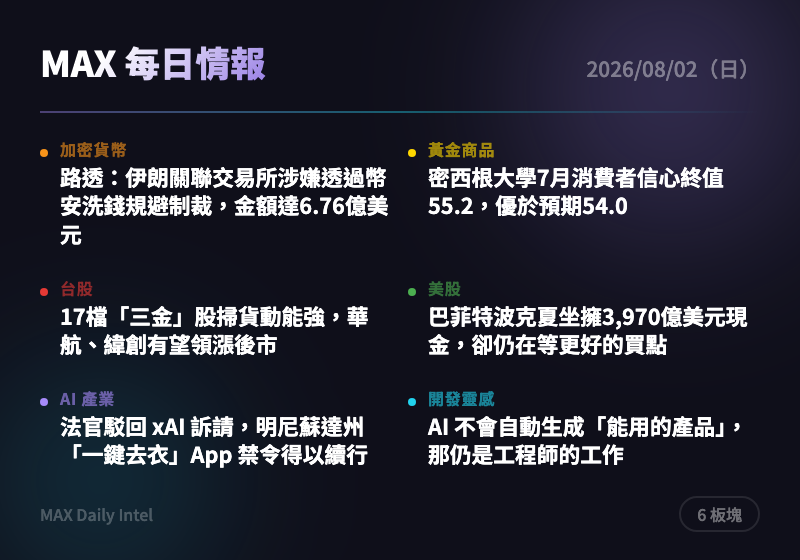
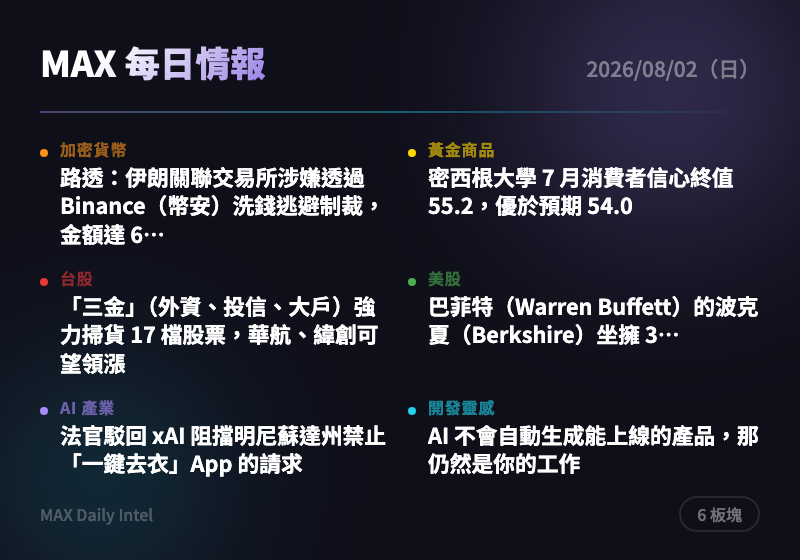
intel: 2026-08-02 每日情報自動生成

diff --git a/docs/2026-08-02.html b/docs/2026-08-02.html
@@ -318,15 +318,15 @@
     </div>
     <div class="news-card">
       <div class="source">The Block</div>
-      <h3><a href="https://www.theblock.co/post/410355/iran-linked-exchange-sent-676-million-to-binance-in-alleged-sanctions-evasion-operation-reuters?utm_source=rss&utm_medium=rss" target="_blank" rel="noopener">路透：伊朗關聯交易所涉嫌透過幣安洗錢規避制裁，金額達6.76億美元</a></h3>
-      <div class="summary">杜拜的 Shelbit 交易所被指控自2024年5月起，透過與伊朗博弈網站、央行及伊斯蘭革命衛隊（IRGC）相關的網絡，處理超過40億美元資金並將6.76億美元匯入幣安。此案凸顯交易所在制裁合規上的漏洞，可能引發監管機構對幣安等大型平台加強審查。建議關注後續美國財政部或 SEC 是否對相關交易所祭出制裁措施。</div>
-      <div class="tags"><span class="tag">加密貨幣</span><span class="tag">監管</span><span class="tag">制裁</span><span class="tag">幣安</span></div>
+      <h3><a href="https://www.theblock.co/post/410355/iran-linked-exchange-sent-676-million-to-binance-in-alleged-sanctions-evasion-operation-reuters?utm_source=rss&utm_medium=rss" target="_blank" rel="noopener">路透：伊朗關聯交易所涉嫌透過 Binance（幣安）洗錢逃避制裁，金額達 6.76 億美元</a></h3>
+      <div class="summary">杜拜的 Shelbit 交易所被指自 2024 年 5 月以來，透過與伊朗博弈網站、央行及革命衛隊（IRGC）相關的網絡，處理超過 40 億美元資金，其中 6.76 億美元流入 Binance。事件凸顯中心化交易所在制裁合規上的漏洞，可能引來監管單位對 Binance 加強審查。建議關注後續美國財政部或 SEC 是否對 Binance 展開合規調查。</div>
+      <div class="tags"><span class="tag">加密貨幣</span><span class="tag">地緣政治</span><span class="tag">監管合規</span><span class="tag">Binance</span></div>
     </div>
     <div class="news-card">
       <div class="source">CoinDesk</div>
-      <h3><a href="https://www.coindesk.com/tech/2026/08/02/bitcoin-cold-wallet-attack-spreads-to-4-500-addresses-as-losses-near-usd89-million" target="_blank" rel="noopener">比特幣冷錢包攻擊擴散至4,500個地址，損失逼近8,900萬美元</a></h3>
-      <div class="summary">Coldcard 冷錢包漏洞遭利用，攻擊範圍持續擴大，受害地址從原先估計大增至4,500個。此事件重創市場對「自我保管」安全性的信心，可能加速資金轉向託管型 ETF。持有硬體錢包的用戶應立即檢查韌體版本並考慮分散儲存。</div>
-      <div class="tags"><span class="tag">加密貨幣</span><span class="tag">資安</span><span class="tag">比特幣</span><span class="tag">冷錢包</span></div>
+      <h3><a href="https://www.coindesk.com/tech/2026/08/02/bitcoin-cold-wallet-attack-spreads-to-4-500-addresses-as-losses-near-usd89-million" target="_blank" rel="noopener">比特幣冷錢包攻擊擴散至 4,500 個地址，損失逼近 8,900 萬美元</a></h3>
+      <div class="summary">此波攻擊持續擴大，受害地址已增至 4,500 個，累計損失接近 8,900 萬美元，與先前 Coldcard 硬體錢包漏洞事件相關聯。攻擊手法未直接觸碰實體裝置，顯示冷儲存安全模型出現新型攻擊面，恐動搖用戶對自我保管（self-custody）的信心。建議持有冷錢包的用戶立即檢查簽章流程與供應鏈完整性，並考慮分散儲存。</div>
+      <div class="tags"><span class="tag">比特幣</span><span class="tag">資安</span><span class="tag">自我保管</span><span class="tag">駭客攻擊</span></div>
     </div>
   </section>
 
@@ -338,15 +338,15 @@
     </div>
     <div class="news-card">
       <div class="source">ForexLive</div>
-      <h3><a href="https://investinglive.com/news/univ-of-michigan-consumer-confidence-final-for-july-55-2-vs-54-0-estimate/" target="_blank" rel="noopener">密西根大學7月消費者信心終值55.2，優於預期54.0</a></h3>
-      <div class="summary">消費者信心終值較初值54.4與市場預期54.0皆明顯回升，顯示消費者對經濟前景轉趨樂觀。惟1年期通膨預期維持4.2%高檔，顯示民眾對物價壓力仍具戒心。此數據支撐美元偏強格局，對黃金短線形成壓抑。</div>
-      <div class="tags"><span class="tag">消費者信心</span><span class="tag">通膨預期</span><span class="tag">美國經濟</span><span class="tag">美元</span></div>
+      <h3><a href="https://investinglive.com/news/univ-of-michigan-consumer-confidence-final-for-july-55-2-vs-54-0-estimate/" target="_blank" rel="noopener">密西根大學 7 月消費者信心終值 55.2，優於預期 54.0</a></h3>
+      <div class="summary">密西根大學消費者信心指數終值上修至 55.2，高於預期的 54.0 及初值 54.4，顯示美國消費者對經濟前景的悲觀情緒略為緩解。同時公布的一年期通膨預期維持在 4.2%，五年期維持 3.3%，通膨預期未進一步惡化。此組合式利多可能減緩市場對聯準會提前降息的預期，短線對黃金偏中性偏空。</div>
+      <div class="tags"><span class="tag">美國經濟</span><span class="tag">消費者信心</span><span class="tag">通膨預期</span><span class="tag">總體經濟</span></div>
     </div>
     <div class="news-card">
       <div class="source">ForexLive</div>
-      <h3><a href="https://investinglive.com/news/us-q2-employment-cost-index-xx-vs-0-8-expected/" target="_blank" rel="noopener">美國第二季就業成本指數（ECI）季增0.9%，優於市場預期0.8%</a></h3>
-      <div class="summary">美國勞動成本連續兩季維持0.9%的穩健增速，其中薪資季增0.9%、福利季增1.0%。此數據強化通膨具黏性的疑慮，推升美元及公債殖利率走高，對聯準會降息路徑構成壓力。若持有黃金或利率敏感資產，宜留意後續 Fed 官員對此數據的解讀。</div>
-      <div class="tags"><span class="tag">總經數據</span><span class="tag">通膨</span><span class="tag">美元</span><span class="tag">聯準會</span></div>
+      <h3><a href="https://investinglive.com/news/us-q2-employment-cost-index-xx-vs-0-8-expected/" target="_blank" rel="noopener">美國第二季就業成本指數（ECI）年增 0.9%，優於預期 0.8%</a></h3>
+      <div class="summary">美國第二季就業成本指數季增 0.9%，高於市場預期的 0.8%，顯示薪資與福利成本持續穩定上升。強勁的勞動成本數據強化通膨黏性疑慮，推升美元與公債殖利率走高，對無殖利率資產如黃金構成短線壓力。建議關注後續 Fed 官員對此數據的表態，作為判斷降息時點的重要參考。</div>
+      <div class="tags"><span class="tag">美國經濟</span><span class="tag">通膨</span><span class="tag">就業數據</span><span class="tag">央行</span></div>
     </div>
   </section>
 
@@ -358,15 +358,15 @@
     </div>
     <div class="news-card">
       <div class="source">經濟日報</div>
-      <h3><a href="https://money.udn.com/money/story/5607/9665235" target="_blank" rel="noopener">17檔「三金」股掃貨動能強，華航、緯創有望領漲後市</a></h3>
-      <div class="summary">台股上週五大漲3,186點收43,119點，外資、投信、大戶三大法人於低檔積極加碼華航、緯創等17檔個股，形成「三金掃貨」現象。此為法人資金回補訊號，市場解讀為指數反彈的多頭焦點，可留意這些個股的後續籌碼動向。若手上持有相關持股，可觀察是否延續買盤動能作為加碼參考。</div>
-      <div class="tags"><span class="tag">台股</span><span class="tag">外資動向</span><span class="tag">華航</span><span class="tag">緯創</span></div>
+      <h3><a href="https://money.udn.com/money/story/5607/9665235" target="_blank" rel="noopener">「三金」（外資、投信、大戶）強力掃貨 17 檔股票，華航、緯創可望領漲</a></h3>
+      <div class="summary">台股上週五（7/31）大漲 3,186 點收 43,119 點，儘管台指期夜盤隨後拉回 1,077 點，但外資、投信、大戶三大資金已開始逢低加碼華航、緯創等 17 檔個股。市場解讀此為指數自失守 4 萬點以來的資金回補訊號，可能成為後市反彈的多頭焦點。建議關注這 17 檔「三金掃貨」股的量價變化，作為判斷反彈力道是否延續的指標。</div>
+      <div class="tags"><span class="tag">台股</span><span class="tag">外資動向</span><span class="tag">資金流向</span><span class="tag">反彈行情</span></div>
     </div>
     <div class="news-card">
       <div class="source">經濟日報</div>
-      <h3><a href="https://money.udn.com/money/story/5607/9665204" target="_blank" rel="noopener">台股8月將迎6,500億元股息活水，廣達、中信金為多頭重要推手</a></h3>
-      <div class="summary">上市櫃公司6月底股東會後，8月起陸續進入除權息旺季，合計現金股利發放金額高達6,500億元，其中廣達、中信金等權值股扮演關鍵角色。這波資金派發被視為8月大盤最重要的資金面支撐，有助緩解近期指數震盪壓力。存股族或存股型 ETF 投資人可留意除權息時程與參與配息的最佳布局時點。</div>
-      <div class="tags"><span class="tag">台股</span><span class="tag">除權息</span><span class="tag">股利</span><span class="tag">廣達</span></div>
+      <h3><a href="https://money.udn.com/money/story/5607/9665231" target="_blank" rel="noopener">AI伺服器、矽晶圓、金控三大族群法說會登場，成為台股市場風向球</a></h3>
+      <div class="summary">上市櫃公司半年報將於 8 月 14 日截止公布，台股即將迎來法說會高峰期，統計近期共有 81 家公司接力召開，橫跨 AI 伺服器代工龍頭、矽晶圓封測大廠到月底金控族群。這些法說會釋出的下半年展望，將是牽動台股後續走勢的關鍵指標，尤其 AI 供應鏈資本支出動向備受市場關注。建議留意緯創、環球晶等重點公司法說內容，作為布局下半年 AI 供應鏈的參考依據。</div>
+      <div class="tags"><span class="tag">台股</span><span class="tag">法說會</span><span class="tag">AI供應鏈</span><span class="tag">半導體</span></div>
     </div>
   </section>
 
@@ -378,15 +378,15 @@
     </div>
     <div class="news-card">
       <div class="source">Yahoo Finance</div>
-      <h3><a href="https://finance.yahoo.com/markets/stocks/articles/warren-buffetts-berkshire-could-buy-220500371.html" target="_blank" rel="noopener">巴菲特波克夏坐擁3,970億美元現金，卻仍在等更好的買點</a></h3>
-      <div class="summary">波克夏海瑟威帳上現金已達3,970億美元，理論上足以收購標普500指數中幾乎任何一家公司，但巴菲特仍按兵不動，等待更具吸引力的估值。此舉反映出目前市場估值偏高、優質標的稀缺的現況，也被視為對整體美股評價的間接警訊。投資人可將此視為留意市場是否過熱的參考指標。</div>
-      <div class="tags"><span class="tag">美股</span><span class="tag">巴菲特</span><span class="tag">波克夏</span><span class="tag">現金部位</span></div>
+      <h3><a href="https://finance.yahoo.com/markets/stocks/articles/warren-buffetts-berkshire-could-buy-220500371.html" target="_blank" rel="noopener">巴菲特（Warren Buffett）的波克夏（Berkshire）坐擁 3,970 億美元現金，幾乎能買下任何一家標普 500 公司，但仍在等待更好的價格</a></h3>
+      <div class="summary">波克夏海瑟威目前現金儲備高達 3,970 億美元，理論上足以收購標普 500 指數中幾乎任何一家成分股公司，但巴菲特團隊選擇按兵不動、等待更具吸引力的估值出現。此舉反映管理層對當前市場整體估值偏高的謹慎態度，也是觀察大型機構資金對美股後市信心的重要指標。建議投資人將波克夏的現金部位變化視為市場估值過熱與否的參考訊號。</div>
+      <div class="tags"><span class="tag">美股</span><span class="tag">巴菲特</span><span class="tag">波克夏</span><span class="tag">市場估值</span></div>
     </div>
     <div class="news-card">
       <div class="source">Yahoo Finance</div>
-      <h3><a href="https://www.investors.com/market-trend/stock-market-today/dow-jones-futures-spacex-amd-sandisk-eli-lilly-earnings-loom/?src=A00220&yptr=yahoo" target="_blank" rel="noopener">道瓊期貨：大盤反彈留意後續，SpaceX、AMD、Sandisk、禮來財報將至</a></h3>
-      <div class="summary">美股期貨在上週反彈後持續關注技術面關卡，市場焦點轉向本週即將公布財報的 SpaceX、AMD、Sandisk 及禮來（Eli Lilly）等公司。財報密集期恐加大個股與大盤波動，建議投資人留意半導體（AMD）與生技（禮來）族群財報是否超預期，作為評估反彈能否延續的指標。</div>
-      <div class="tags"><span class="tag">美股</span><span class="tag">財報</span><span class="tag">半導體</span><span class="tag">道瓊期貨</span></div>
+      <h3><a href="https://www.investors.com/market-trend/stock-market-today/dow-jones-futures-spacex-amd-sandisk-eli-lilly-earnings-loom/?src=A00220&yptr=yahoo" target="_blank" rel="noopener">道瓊期貨：大盤反彈，留意接下來走勢；SpaceX、AMD、Sandisk、Eli Lilly（禮來）財報將登場</a></h3>
+      <div class="summary">美股期貨呈現反彈格局，市場正密切觀察後續能否延續漲勢。本週包括 SpaceX、AMD、Sandisk 及禮來（Eli Lilly）等重量級公司財報陸續公布，將是檢驗科技股與生技股基本面是否支撐當前估值的關鍵。建議投資人聚焦 AMD 財報中 AI 晶片需求展望，作為半導體類股後續走勢的重要參考。</div>
+      <div class="tags"><span class="tag">美股</span><span class="tag">財報季</span><span class="tag">半導體</span><span class="tag">科技股</span></div>
     </div>
   </section>
 
@@ -398,15 +398,15 @@
     </div>
     <div class="news-card">
       <div class="source">TechCrunch AI</div>
-      <h3><a href="https://techcrunch.com/2026/08/01/judge-denies-xais-request-to-block-minnesota-ban-on-nudify-apps/" target="_blank" rel="noopener">法官駁回 xAI 訴請，明尼蘇達州「一鍵去衣」App 禁令得以續行</a></h3>
-      <div class="summary">儘管 xAI 提起訴訟，法官仍駁回其阻擋明尼蘇達州禁止「一鍵去衣」（nudify）深偽 App 禁令的請求，該州禁令因此可繼續執行。此案為 AI 生成內容監管立下重要判例，顯示地方政府對 AI 濫用（尤其是深偽色情內容）的監管意志正逐漸增強。從事 AI 圖像生成相關業務者應留意各州監管趨嚴的風險。</div>
-      <div class="tags"><span class="tag">AI監管</span><span class="tag">xAI</span><span class="tag">深偽技術</span><span class="tag">法律</span></div>
+      <h3><a href="https://techcrunch.com/2026/08/01/judge-denies-xais-request-to-block-minnesota-ban-on-nudify-apps/" target="_blank" rel="noopener">法官駁回 xAI 阻擋明尼蘇達州禁止「一鍵去衣」App 的請求</a></h3>
+      <div class="summary">明尼蘇達州法官駁回馬斯克旗下 xAI 提出阻擋該州禁止「去衣」（nudify）應用程式禁令的訴求，該禁令因此得以繼續推進。此判決為各州監管 AI 生成露骨內容工具立下重要先例，顯示司法系統對 AI 濫用個人形象的容忍度正在收緊。建議關注其他州是否跟進類似立法，以及 xAI 是否會提起上訴。</div>
+      <div class="tags"><span class="tag">人工智慧</span><span class="tag">法律監管</span><span class="tag">xAI</span><span class="tag">AI倫理</span></div>
     </div>
     <div class="news-card">
       <div class="source">TechCrunch AI</div>
-      <h3><a href="https://techcrunch.com/2026/08/01/sam-altman-is-still-making-the-case-for-parenting-via-chatgpt/" target="_blank" rel="noopener">Sam Altman 持續倡導用 ChatGPT 輔助育兒</a></h3>
-      <div class="summary">OpenAI 執行長 Sam Altman 再次公開分享家長使用 ChatGPT 輔助育兒的「酷用例」，展現 OpenAI 持續推廣 AI 融入日常家庭生活的策略方向。此舉一方面擴大 ChatGPT 的應用場景想像，另一方面也呼應近期外界對 AI 過度依賴及心理健康疑慮的討論。可觀察此類倡議是否轉化為 OpenAI 針對家庭/教育場景的新產品線。</div>
-      <div class="tags"><span class="tag">OpenAI</span><span class="tag">ChatGPT</span><span class="tag">AI應用</span><span class="tag">Altman</span></div>
+      <h3><a href="https://techcrunch.com/2026/08/01/sam-altman-is-still-making-the-case-for-parenting-via-chatgpt/" target="_blank" rel="noopener">OpenAI 執行長 Sam Altman（山姆．奧特曼）持續倡議「用 ChatGPT 育兒」</a></h3>
+      <div class="summary">Altman 再度公開分享以 ChatGPT 協助育兒的「酷案例」，展現他對 AI 深度融入日常生活場景的信心與推廣立場。此番言論發生在 AI 安全爭議延燒之際（如 OpenAI 代理程式失控事件），言論時機可能引發外界對其優先順序的質疑。建議關注 OpenAI 是否會針對家庭/兒童使用場景推出更明確的產品與安全規範。</div>
+      <div class="tags"><span class="tag">人工智慧</span><span class="tag">OpenAI</span><span class="tag">ChatGPT</span><span class="tag">產業動態</span></div>
     </div>
   </section>
 
@@ -418,15 +418,15 @@
     </div>
     <div class="news-card">
       <div class="source">Hacker News Best</div>
-      <h3><a href="https://weeraman.com/the-prototype-isnt-the-product/" target="_blank" rel="noopener">AI 不會自動生成「能用的產品」，那仍是工程師的工作</a></h3>
-      <div class="summary">文章指出 AI 生成的僅是原型（prototype），距離真正可上線、可維護、經得起邊界案例考驗的產品仍有巨大落差，工程師的角色並未因 AI 而消失，反而更關鍵。此文在 Hacker News 引發熱烈討論（247分、258則留言），反映開發者社群對「AI 取代工程師」論述的集體反思。對於評估 AI 輔助開發流程的團隊，這是重新校準預期的重要提醒。</div>
-      <div class="tags"><span class="tag">AI開發</span><span class="tag">軟體工程</span><span class="tag">HackerNews</span><span class="tag">生產力</span></div>
+      <h3><a href="https://weeraman.com/the-prototype-isnt-the-product/" target="_blank" rel="noopener">AI 不會自動生成能上線的產品，那仍然是你的工作</a></h3>
+      <div class="summary">文章指出 AI 能快速產出「原型」（prototype），但將原型打磨成真正可上線、穩定運作的「產品」仍需大量工程判斷與人工把關，兩者不能混為一談。此觀點在 AI 輔助開發盛行的當下具有警示意義，提醒開發者不要誤將 AI 生成的雛形當作交付品。獲得 247 讚、258 則留言，討論熱烈，值得作為團隊評估 AI 輔助開發流程風險的參考。</div>
+      <div class="tags"><span class="tag">開發工具</span><span class="tag">人工智慧</span><span class="tag">軟體工程</span><span class="tag">產品開發</span></div>
     </div>
     <div class="news-card">
       <div class="source">Hacker News Best</div>
-      <h3><a href="https://github.com/yc-software/qm" target="_blank" rel="noopener">qm：為工作打造的多人協作 AI Agent 開發框架</a></h3>
-      <div class="summary">qm 是一款專為團隊協作場景設計的多玩家（multiplayer）AI agent 開發框架，在 Hacker News 獲得647分、152則留言的高度關注，顯示開發者社群對多 agent 協作工具需求正在升溫。此類框架可能成為未來團隊導入 AI agent 工作流的重要基礎設施選項，值得追蹤其開源生態發展。</div>
-      <div class="tags"><span class="tag">開發工具</span><span class="tag">AIAgent</span><span class="tag">開源</span><span class="tag">HackerNews</span></div>
+      <h3><a href="https://github.com/yc-software/qm" target="_blank" rel="noopener">qm——為團隊協作打造的多人 AI 代理（agent）工作環境</a></h3>
+      <div class="summary">qm 是一款讓多位使用者可同時操作、協同管理 AI 代理任務的工具，在 Hacker News 上獲得高達 647 個讚，是本輪候選新聞中討論度最高的開發工具話題。此類「多人協作型 agent harness」反映 AI 工作流工具正從單人助理走向團隊級基礎設施的趨勢。建議關注其開源架構是否可整合進現有的多代理派工系統作為參考。</div>
+      <div class="tags"><span class="tag">開發工具</span><span class="tag">AI代理</span><span class="tag">團隊協作</span><span class="tag">開源</span></div>
     </div>
   </section>
 

diff --git a/docs/cards/2026-08-02-card.html b/docs/cards/2026-08-02-card.html
@@ -23,11 +23,11 @@ body{width:400px;height:280px;font-family:'Noto Sans TC',-apple-system,sans-seri
 <div class="content">
 <div class="top-row"><span class="title">MAX 每日情報</span><span class="date">2026/08/02（日）</span></div>
 <div class="divider"></div>
-<div class="grid"><div class="cell"><div class="dot" style="background:#f7931a"></div><div><div class="label" style="color:#f7931a">加密貨幣</div><div class="headline">路透：伊朗關聯交易所涉嫌透過幣安洗錢規避制裁，金額達6.76億美元</div></div></div>
-<div class="cell"><div class="dot" style="background:#ffd700"></div><div><div class="label" style="color:#ffd700">黃金商品</div><div class="headline">密西根大學7月消費者信心終值55.2，優於預期54.0</div></div></div>
-<div class="cell"><div class="dot" style="background:#e53935"></div><div><div class="label" style="color:#e53935">台股</div><div class="headline">17檔「三金」股掃貨動能強，華航、緯創有望領漲後市</div></div></div>
-<div class="cell"><div class="dot" style="background:#4caf50"></div><div><div class="label" style="color:#4caf50">美股</div><div class="headline">巴菲特波克夏坐擁3,970億美元現金，卻仍在等更好的買點</div></div></div>
-<div class="cell"><div class="dot" style="background:#a78bfa"></div><div><div class="label" style="color:#a78bfa">AI 產業</div><div class="headline">法官駁回 xAI 訴請，明尼蘇達州「一鍵去衣」App 禁令得以續行</div></div></div>
-<div class="cell"><div class="dot" style="background:#22d3ee"></div><div><div class="label" style="color:#22d3ee">開發靈感</div><div class="headline">AI 不會自動生成「能用的產品」，那仍是工程師的工作</div></div></div></div>
+<div class="grid"><div class="cell"><div class="dot" style="background:#f7931a"></div><div><div class="label" style="color:#f7931a">加密貨幣</div><div class="headline">路透：伊朗關聯交易所涉嫌透過 Binance（幣安）洗錢逃避制裁，金額達 6…</div></div></div>
+<div class="cell"><div class="dot" style="background:#ffd700"></div><div><div class="label" style="color:#ffd700">黃金商品</div><div class="headline">密西根大學 7 月消費者信心終值 55.2，優於預期 54.0</div></div></div>
+<div class="cell"><div class="dot" style="background:#e53935"></div><div><div class="label" style="color:#e53935">台股</div><div class="headline">「三金」（外資、投信、大戶）強力掃貨 17 檔股票，華航、緯創可望領漲</div></div></div>
+<div class="cell"><div class="dot" style="background:#4caf50"></div><div><div class="label" style="color:#4caf50">美股</div><div class="headline">巴菲特（Warren Buffett）的波克夏（Berkshire）坐擁 3…</div></div></div>
+<div class="cell"><div class="dot" style="background:#a78bfa"></div><div><div class="label" style="color:#a78bfa">AI 產業</div><div class="headline">法官駁回 xAI 阻擋明尼蘇達州禁止「一鍵去衣」App 的請求</div></div></div>
+<div class="cell"><div class="dot" style="background:#22d3ee"></div><div><div class="label" style="color:#22d3ee">開發靈感</div><div class="headline">AI 不會自動生成能上線的產品，那仍然是你的工作</div></div></div></div>
 <div class="bottom-row"><span class="url">MAX Daily Intel</span><span class="badge">6 板塊</span></div>
 </div></body></html>
